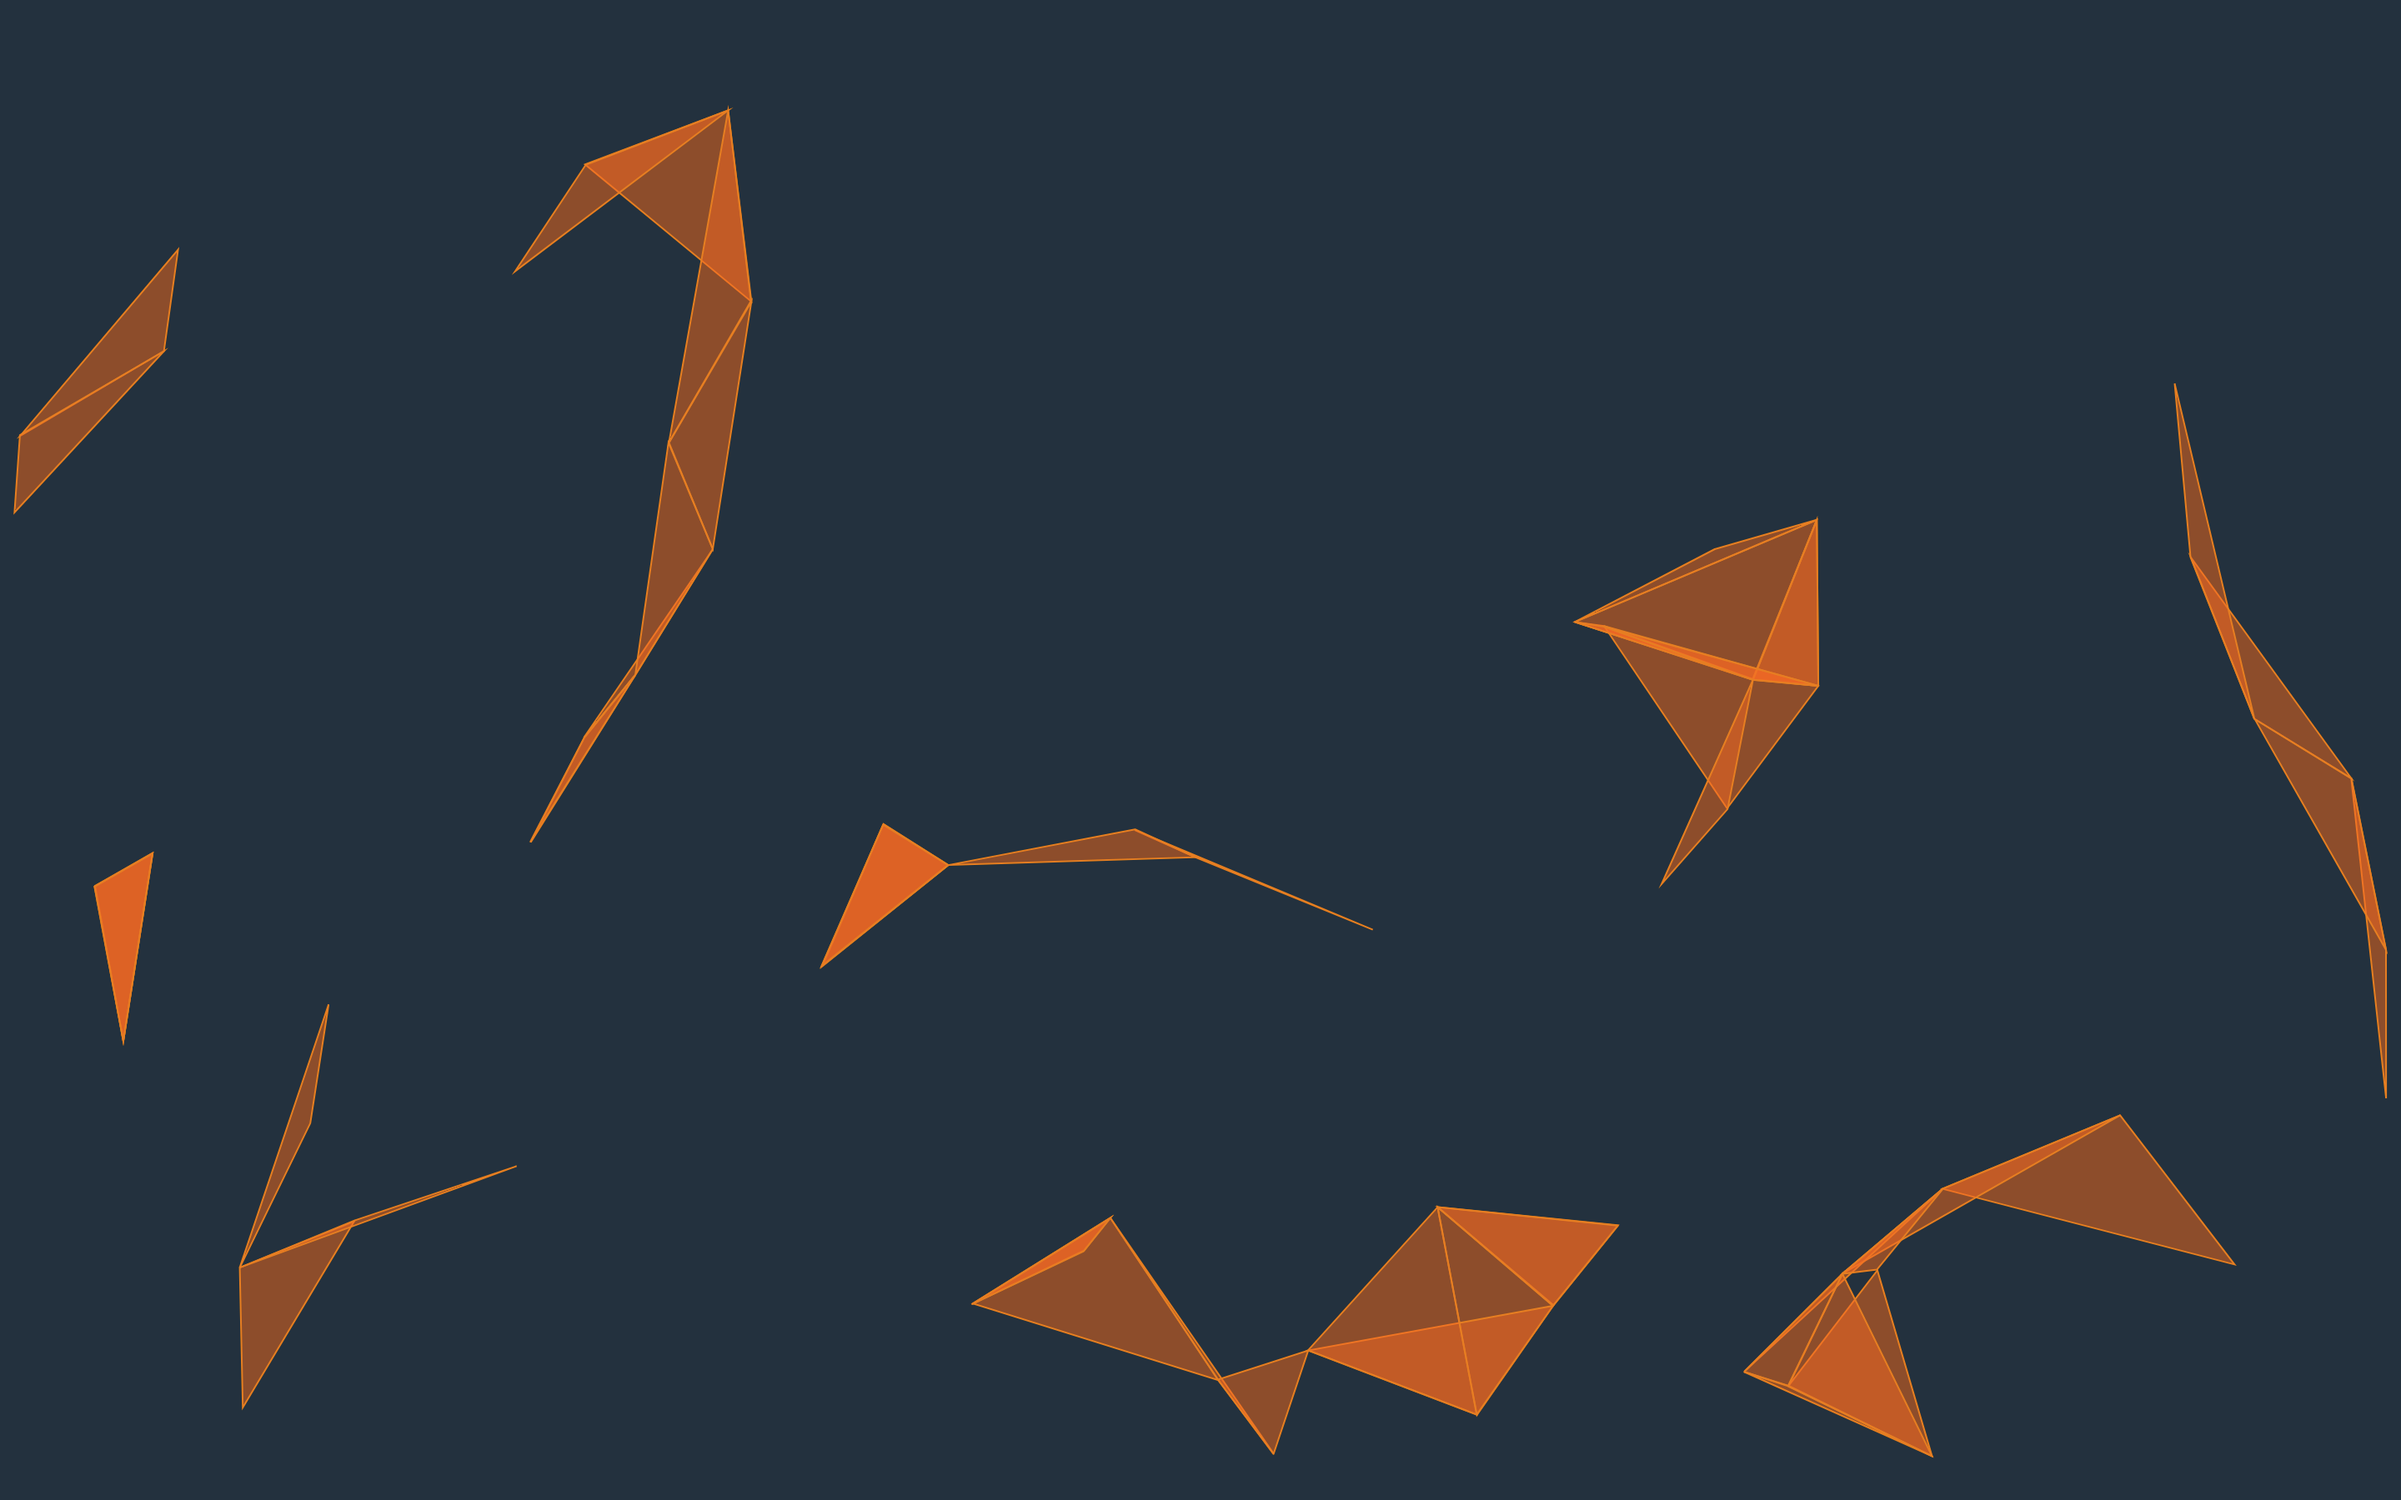
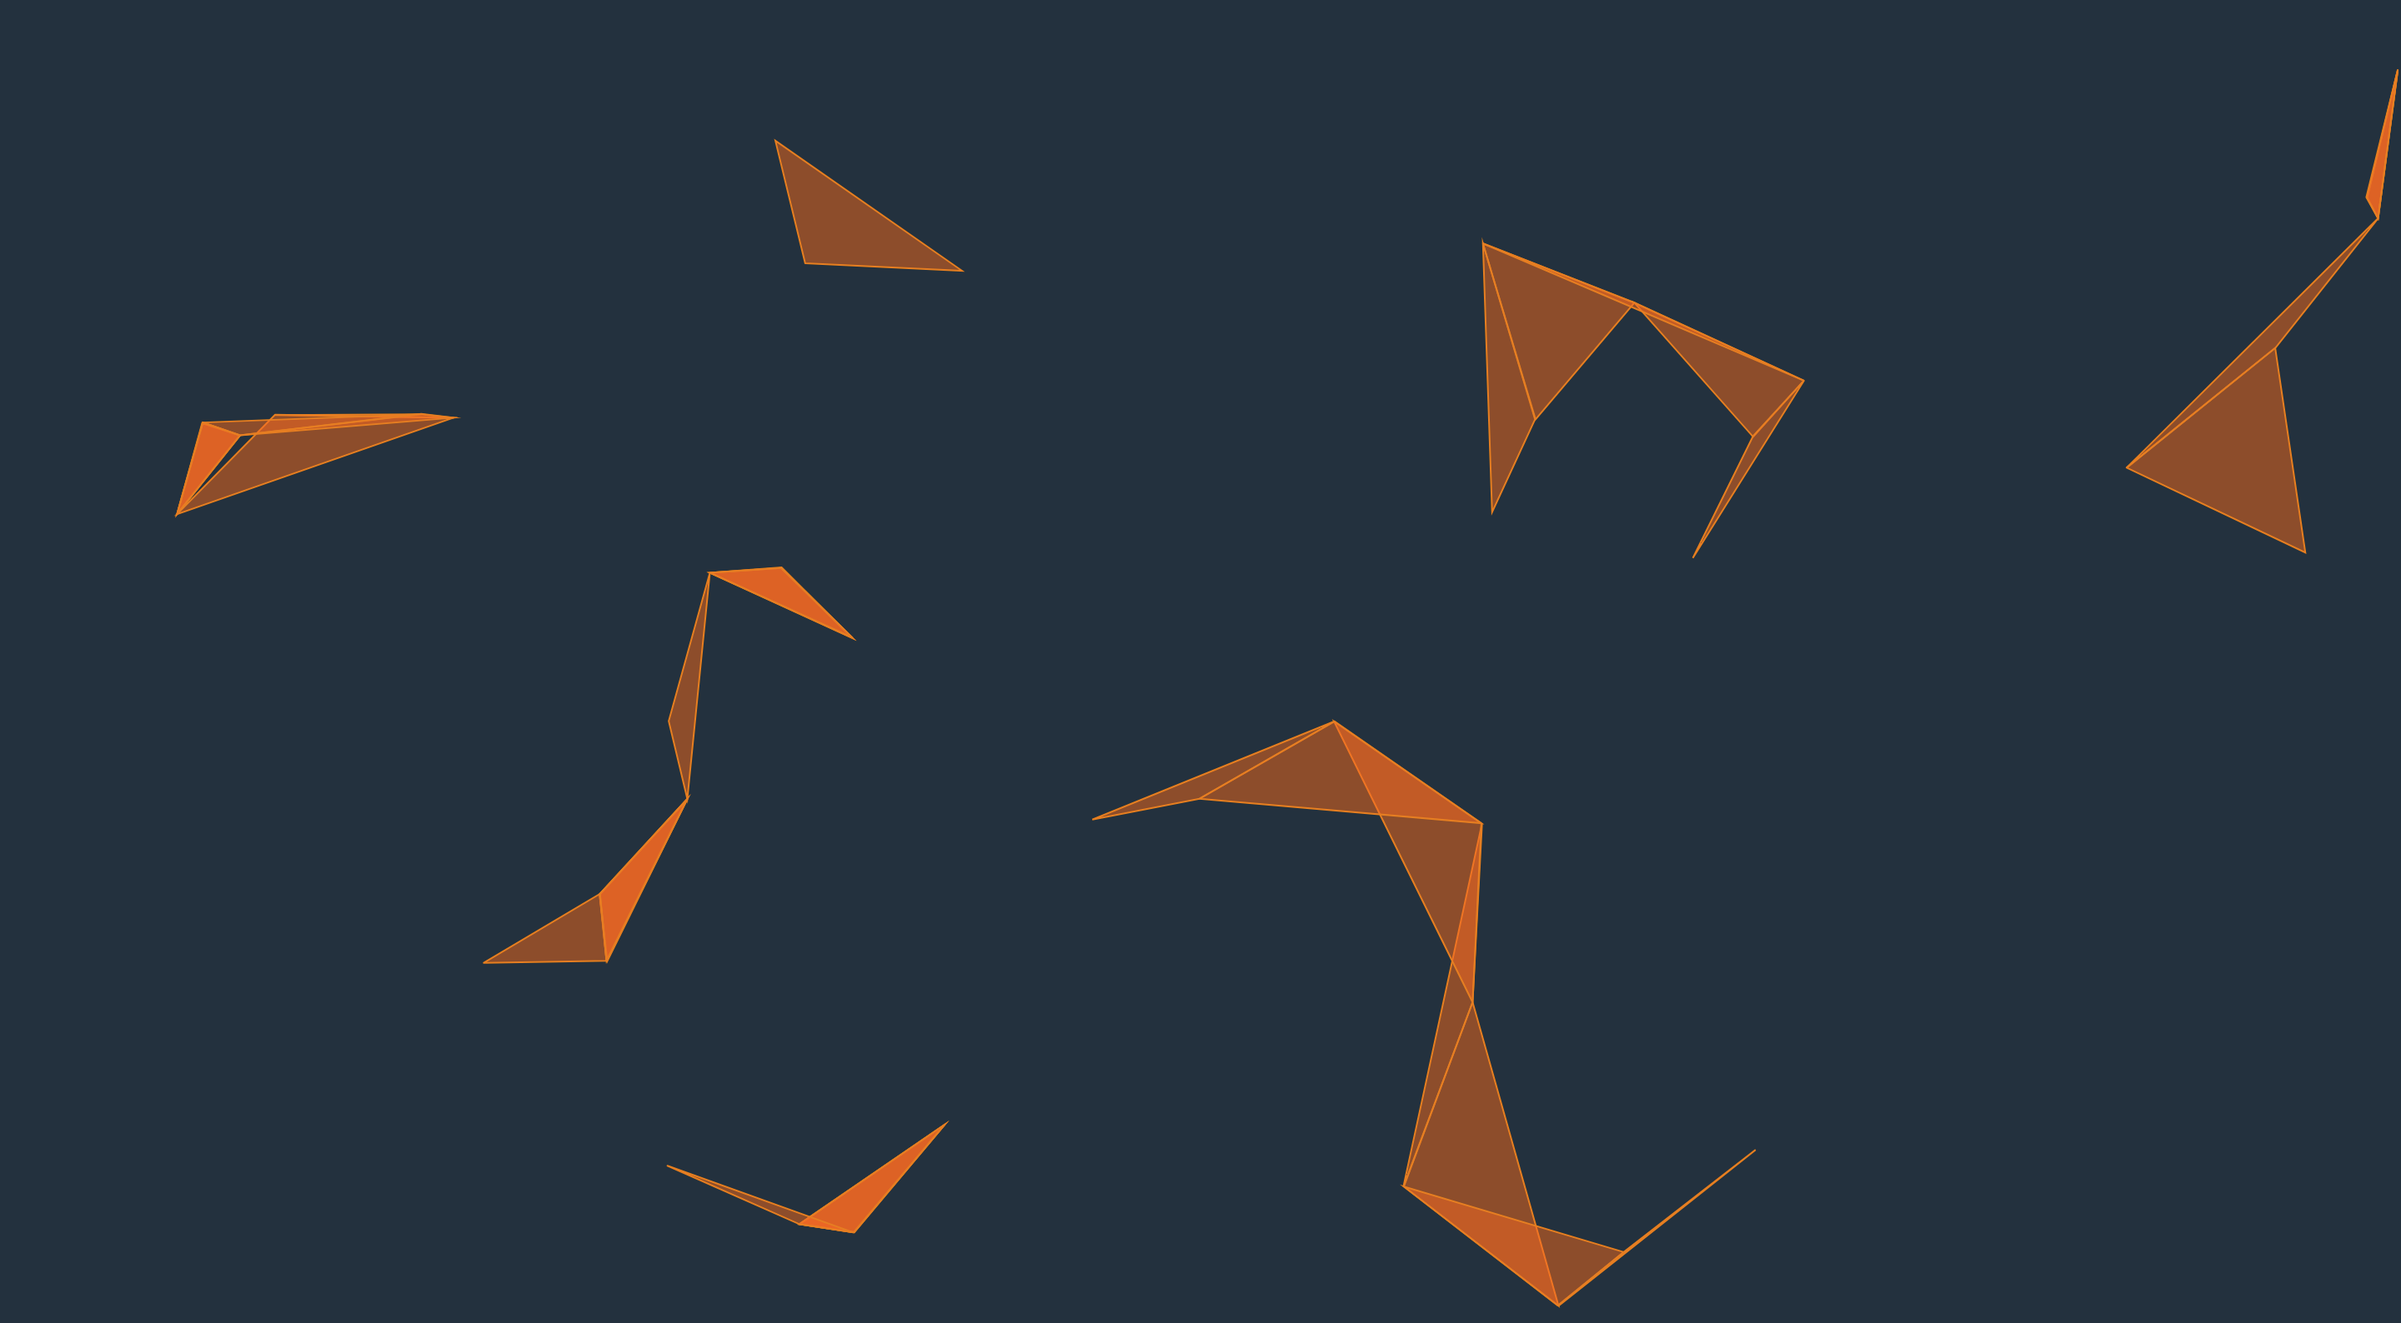
update

diff --git a/components/Polygon.vue b/components/Polygon.vue
@@ -1,0 +1,116 @@
+<template>
+  <div>
+    <div id="canvas">
+
+    </div>
+  </div>
+</template>
+
+<script>
+  import PointObj from '~/assets/js/Polygon/PointObj.js'
+  import Branch from '~/assets/js/Polygon/Branch.js'
+
+  export default{
+    mounted () {
+      this.width = window.innerWidth
+      this.height = window.innerHeight
+
+      const sketch = (p) => {
+        p.setup = this.setup(p)
+        p.draw = this.draw(p)
+      }
+      const p5 = new this.$p5(sketch)
+      this.p5 = p5
+
+      window.addEventListener('resize', this.resizeCanvas)
+    },
+    data () {
+      return {
+        width: null,
+        height: null,
+        p5: null,
+        rootPoints: [],
+        branches: [],
+        subBranches: []
+      }
+    },
+    methods: {
+      resizeCanvas () {
+        this.width = window.innerWidth
+        this.height = window.innerHeight
+        this.p5.resizeCanvas(this.width, this.height)
+      },
+      setup (p) {
+        return () => {
+          let canvas = p.createCanvas(this.width, this.height)
+          canvas.parent('#canvas')
+          p.translate(p.width / 2, p.height / 2)
+          p.strokeWeight(1)
+
+          this.setRootPoints(p)
+          this.branches.push(new Branch(0, 0, this.rootPoints))
+
+          for (let level = 0; level < 4; level++) {
+            this.branches.push(new Branch(level, 0, this.branches[level].projPoints))
+          }
+
+          this.branches.forEach(branch => {
+            this.displayPolygon(p, branch)
+            this.displayStrut(p, branch)
+
+          //            for (let i = 0; branch.outerPoints.length; i++) {
+          //              let nextIndex = i - 1
+          //              if (nextIndex < 0) {
+          //                nextIndex = nextIndex + branch.outerPoints.length
+          //              }
+          //
+          //              this.subBranches.push(new Branch(0, 0, [
+          //                branch.outerPoints[i],
+          //                branch.midPoints[i],
+          //                branch.projPoints[i],
+          //                branch.projPoints[nextIndex],
+          //                branch.midPoints[nextIndex]
+          //              ]))
+          //            }
+          })
+        }
+      },
+      draw (p) {
+        return () => {
+
+        }
+      },
+      setRootPoints (p) {
+        for (let i = 0; i < 360; i += 72) {
+          const radius = 400
+          const x = radius * p.cos(p.radians(i))
+          const y = radius * p.sin(p.radians(i))
+          this.rootPoints.push(new PointObj(x, y))
+        }
+      },
+      displayPolygon (p, branch) {
+        for (let i = 0; i < branch.outerPoints.length; i++) {
+          let nextIndex = i + 1
+          if (nextIndex === branch.outerPoints.length) nextIndex = 0
+          p.line(branch.outerPoints[i].x, branch.outerPoints[i].y, branch.outerPoints[nextIndex].x, branch.outerPoints[nextIndex].y)
+        }
+      },
+      displayStrut (p, branch) {
+        for (let i = 0; i < branch.midPoints.length; i++) {
+          p.ellipse(branch.midPoints[i].x, branch.midPoints[i].y, 16, 16)
+          p.line(branch.midPoints[i].x, branch.midPoints[i].y, branch.projPoints[i].x, branch.projPoints[i].y)
+          p.ellipse(branch.projPoints[i].x, branch.projPoints[i].y, 16, 16)
+        }
+      }
+    }
+  }
+</script>
+
+<style scoped>
+  #canvas {
+    position: absolute;
+    left: 0;
+    top: 0;
+    z-index: -1;
+  }
+</style>

diff --git a/assets/js/Polygon/Branch.js b/assets/js/Polygon/Branch.js
@@ -1,0 +1,56 @@
+import PointObj from '~/assets/js/Polygon/PointObj.js'
+class Branch {
+  constructor (level, num, points) {
+    this.num = num
+    this.outerPoints = points
+    this.strutFactor = 0.2
+    this.midPoints = this.calcMidPoints()
+    this.projPoints = this.calcStrutPoints()
+  }
+  calcMidPoints () {
+    const midPointArray = []
+    for (let i = 0; i < this.outerPoints.length; i++) {
+      let nextIndex = i + 1
+      if (nextIndex === this.outerPoints.length) { nextIndex = 0 }
+
+      midPointArray.push(this.calcMidPoint(this.outerPoints[i], this.outerPoints[nextIndex]))
+    }
+    return midPointArray
+  }
+  calcMidPoint (point1, point2) {
+    const x = (point1.x + point2.x) / 2
+    const y = (point1.y + point2.y) / 2
+    return new PointObj(x, y)
+  }
+
+  calcStrutPoints () {
+    const strutPoints = []
+    for (let i = 0; i < this.midPoints.length; i++) {
+      let opposite = i + 3
+      if (opposite >= this.midPoints.length) opposite -= this.midPoints.length
+      strutPoints.push(this.calcProjPoint(this.midPoints[i], this.outerPoints[opposite]))
+    }
+    return strutPoints
+  }
+
+  calcProjPoint (midPoint, opposite) {
+    let x, y
+    if (opposite.x > midPoint.x) {
+      const opp = opposite.x - midPoint.x
+      x = midPoint.x + (opp * this.strutFactor)
+    } else {
+      const opp = midPoint.x - opposite.x
+      x = midPoint.x - (opp * this.strutFactor)
+    }
+
+    if (opposite.y > midPoint.y) {
+      const adj = opposite.y - midPoint.y
+      y = midPoint.y + (adj * this.strutFactor)
+    } else {
+      const adj = midPoint.y - opposite.y
+      y = midPoint.y - (adj * this.strutFactor)
+    }
+    return new PointObj(x, y)
+  }
+}
+export default Branch

diff --git a/components/ArtGallery.vue b/components/ArtGallery.vue
@@ -25,7 +25,7 @@
     data () {
       return {
         gallery: [
-          {src: 'fractal.png', word: 'fractal', location: ''},
+          {src: 'fractal.png', word: 'fractal', location: 'polygon'},
           {src: 'l-system.png', word: 'l-system', location: ''},
           {src: 'eddy.png', word: 'eddy ', location: 'eddy'},
           {src: 'sin-wave.png', word: 'sin-wave', location: 'sin-wave'},

diff --git a/pages/art/polygon.vue b/pages/art/polygon.vue
@@ -1,0 +1,14 @@
+<template>
+  <div>
+    <polygon-app></polygon-app>
+  </div>
+</template>
+<script>
+  import PolygonApp from '~/components/Polygon.vue'
+
+  export default{
+    components: {
+      PolygonApp
+    }
+  }
+</script>

diff --git a/assets/js/Polygon/PointObj.js b/assets/js/Polygon/PointObj.js
@@ -1,0 +1,7 @@
+class PointObj {
+  constructor (x, y) {
+    this.x = x
+    this.y = y
+  }
+}
+export default PointObj
